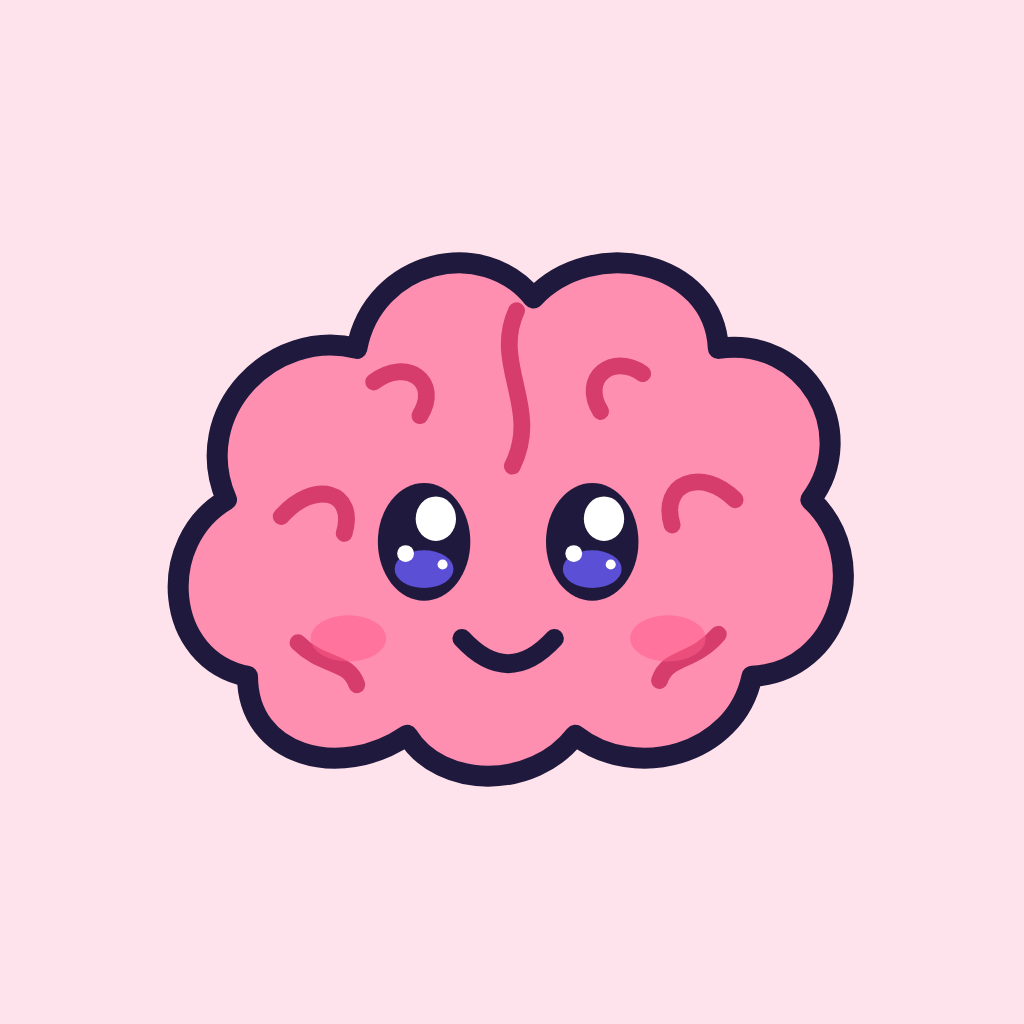
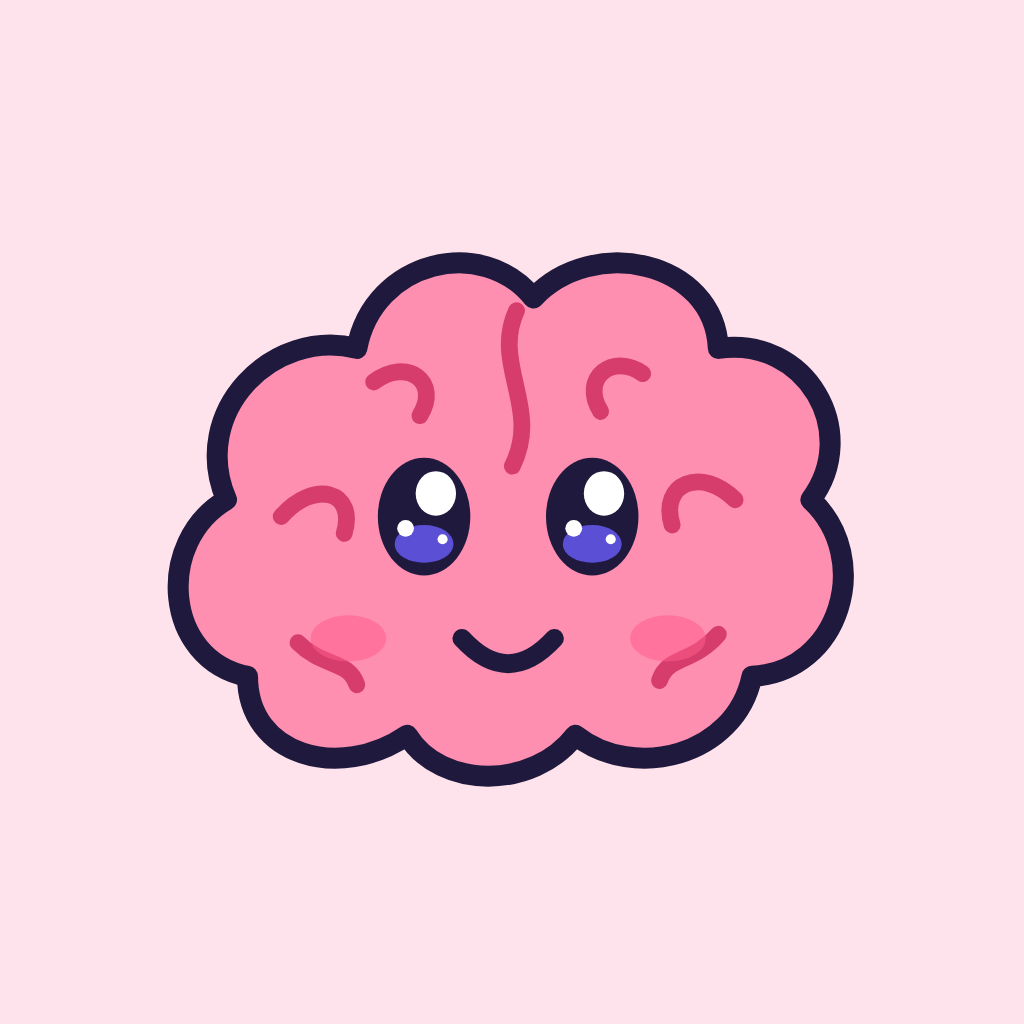
Mascotte : yeux remontés (lunettes et masque suivent), icônes régénérées
Claude-Session: https://claude.ai/code/session_01YNgFjATS11oQipRLzsWoFF

Changed region(s): [[0.3438, 0.4375, 0.4688, 0.5938], [0.5312, 0.4375, 0.625, 0.5938]]

diff --git a/src/components/mascot/geometry.ts b/src/components/mascot/geometry.ts
@@ -18,8 +18,8 @@ export const FOLDS = [
 ];
 
 export const EYES = [
-  { cx: 82, cy: 107 },
-  { cx: 122, cy: 107 },
+  { cx: 82, cy: 101 },
+  { cx: 122, cy: 101 },
 ];
 
 /**
@@ -85,14 +85,14 @@ export const ACCESSORIES: Record<string, { behindFace?: boolean; shapes: Shape[]
   },
   lunettes: {
     shapes: [
-      { kind: "circle", cx: 82, cy: 107, r: 19, fill: "none", stroke: INK, strokeWidth: 4 },
-      { kind: "circle", cx: 122, cy: 107, r: 19, fill: "none", stroke: INK, strokeWidth: 4 },
-      { kind: "path", d: "M 101 105 C 102 102 102 102 103 105", fill: "none", stroke: INK, strokeWidth: 4 },
+      { kind: "circle", cx: 82, cy: 101, r: 19, fill: "none", stroke: INK, strokeWidth: 4 },
+      { kind: "circle", cx: 122, cy: 101, r: 19, fill: "none", stroke: INK, strokeWidth: 4 },
+      { kind: "path", d: "M 101 99 C 102 96 102 96 103 99", fill: "none", stroke: INK, strokeWidth: 4 },
     ],
   },
   masque: {
     behindFace: true,
-    shapes: [{ kind: "path", d: "M 50 97 C 72 87 134 87 156 97 L 152 123 C 132 115 74 115 54 123 Z", fill: "#E5484D", stroke: INK, strokeWidth: 4 }],
+    shapes: [{ kind: "path", d: "M 50 91 C 72 81 134 81 156 91 L 152 117 C 132 109 74 109 54 117 Z", fill: "#E5484D", stroke: INK, strokeWidth: 4 }],
   },
   noeud: {
     shapes: [
